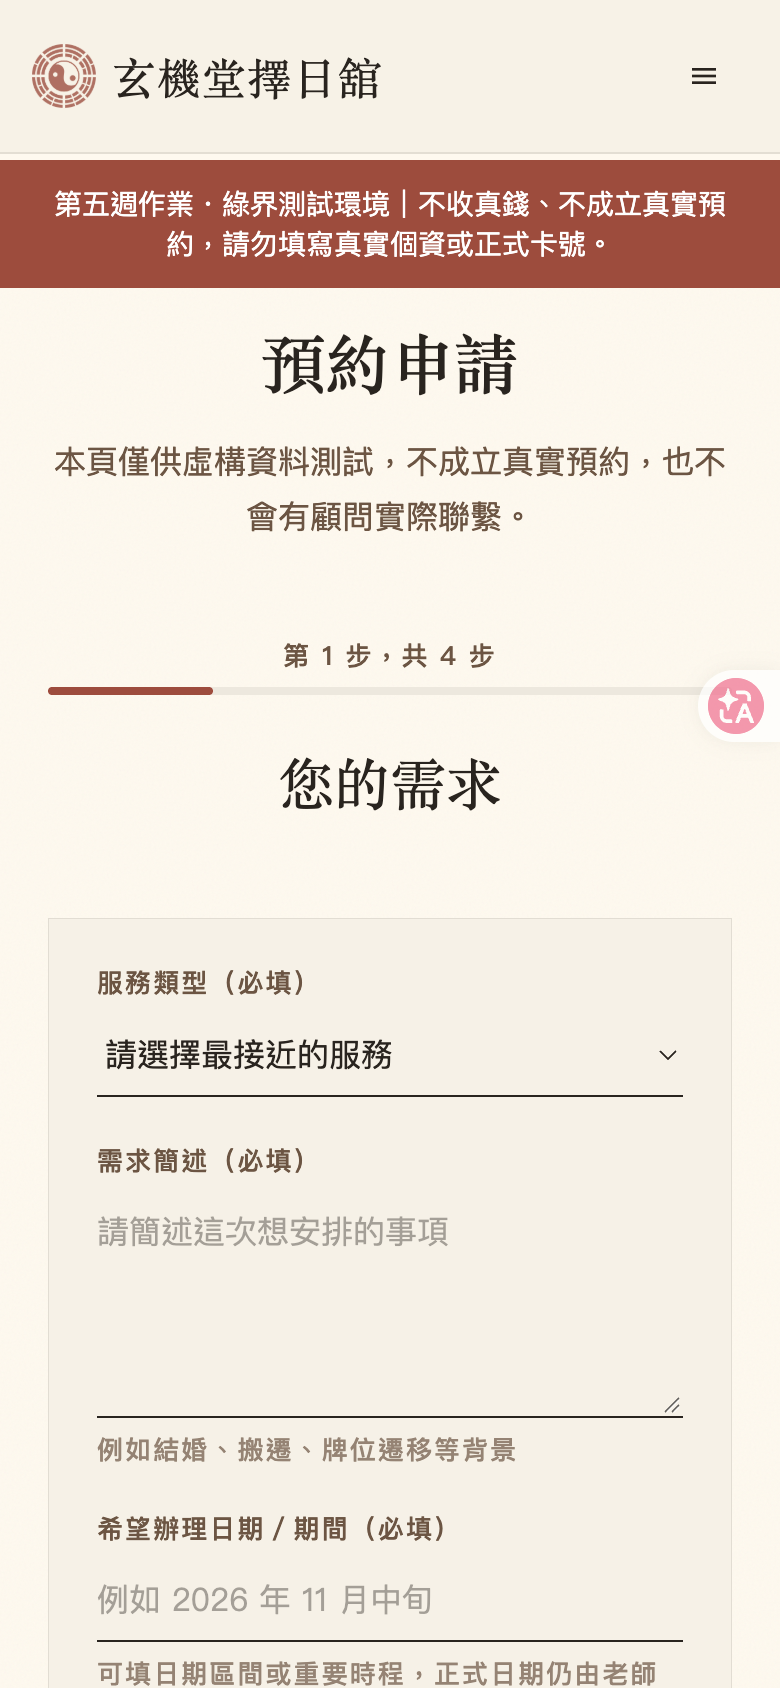
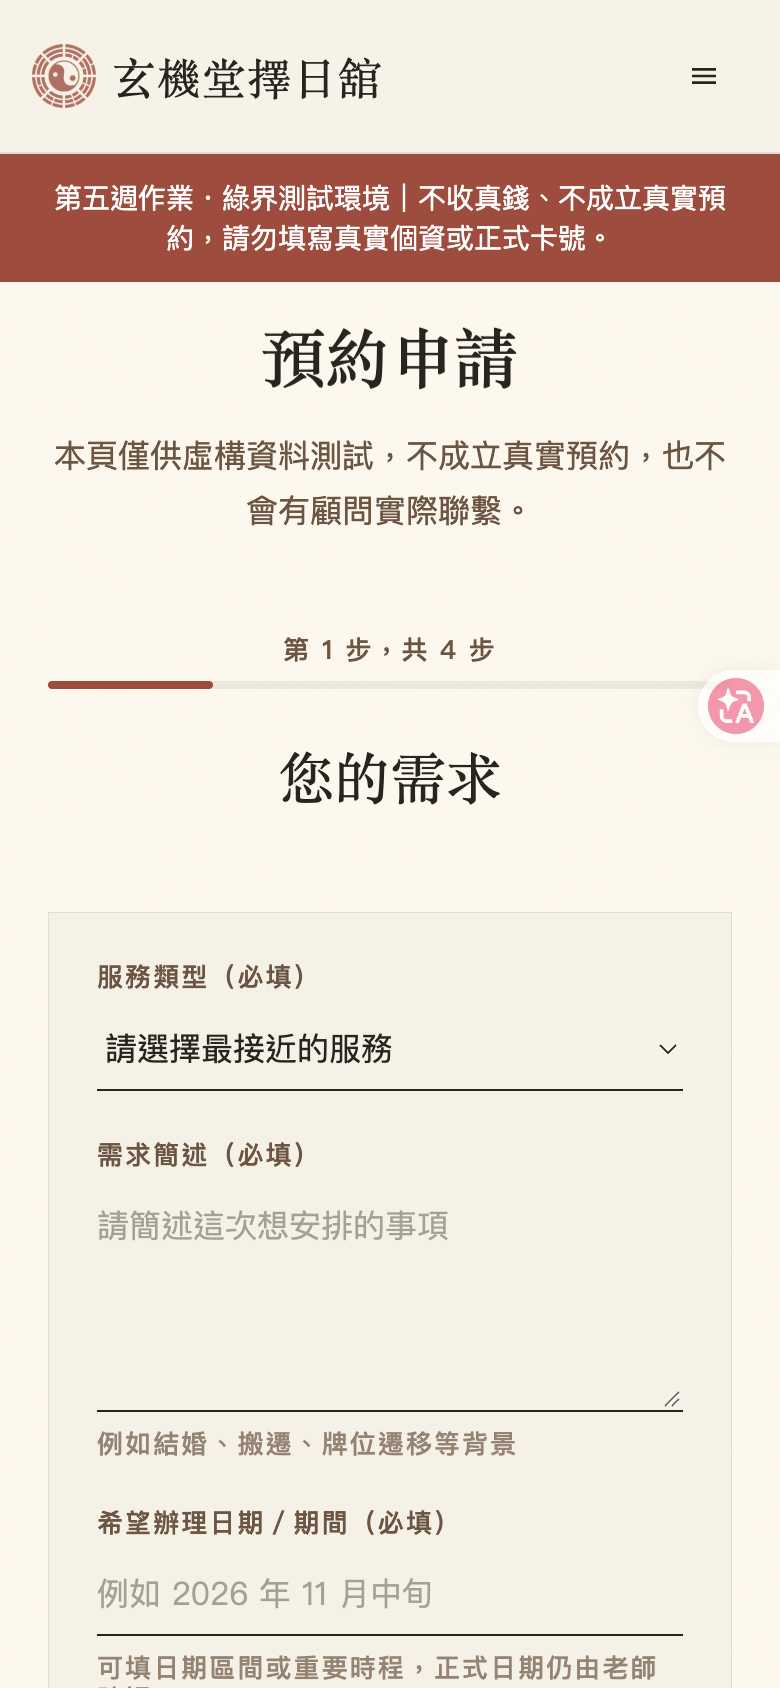
docs: refresh mobile validation evidence and submission screenshots [skip render]

diff --git a/submission/README.md b/submission/README.md
@@ -34,7 +34,7 @@
 
 **互動操作路徑**：開啟首頁 → 查看服務 → 開始預約 → 填寫4步 → 確認摘要 → 送出測試申請 → 模擬確認總價 → 示意登入 → 綠界測試付款頁。
 
-**驗收狀態**：已在公開網址實測完整表單送出、返回保留資料、必填防呆、手機選單、7個服務頁、3篇文章、價格與服務方式。Render可啟動，真實綠界查單回覆待付款狀態正常；程式檢查、8項自動測試及單檔建置通過。
+**驗收狀態**：已在公開網址實測完整表單送出、返回保留資料、必填防呆、手機選單、7個服務頁、3篇文章、價格與服務方式。Render可啟動，真實綠界查單回覆待付款狀態正常；程式檢查、12項自動測試及單檔建置通過。
 
 **尚未完成的驗證**：目前停在綠界測試頁最終付款送出前；「刷卡完成、綠界實際通知、回站成功」尚未完整驗證，不宣稱已完成支付E2E。付款按鈕可抵達官方測試站，並非正式收款。
 
@@ -48,6 +48,7 @@
 ![手機預約表單](https://raw.githubusercontent.com/50819just/xuanjitang-vibe-week05/main/docs/screenshots/mobile-booking.png)
 
 ### 手機必填防呆
+驗證失敗時提示會出現在欄位上方，並自動捲回可見位置；手機導覽隨頁面捲動，不遮蓋欄位。手機預約截圖來自348ebd1，防呆於35c44ad公開版重拍（圖片內容相同）。
 ![手機必填防呆](https://raw.githubusercontent.com/50819just/xuanjitang-vibe-week05/main/docs/screenshots/mobile-validation.png)
 
 ## 與AI反覆調整的過程
@@ -56,6 +57,7 @@
 - 為GitHub Pages修正內頁與付款回站的hash導覽，避免內頁重整找不到檔案。
 - 修正表單驗證、費用級距與付款狀態；補上偽造簽章、錯誤金額、模擬通知的拒絕測試。
 - 真正在瀏覽器填寫預約、串接Render、進入綠界測試頁，再確認主動查單。
+- 使用者指出舊手機防呆截圖內容被固定導覽遮擋，改為手機正常排版流、錯誤聚焦與自動捲回；390px及320px重驗後更新截圖。
 - 手機QA發現320px頂部按鈕擠到選單，調整成小螢幕保留選單，預約入口仍在選單與內文。
 
 ## 來源與使用限制

diff --git a/docs/QA_2026-10-07.md b/docs/QA_2026-10-07.md
@@ -52,3 +52,17 @@
 - 掃描142個Git追蹤檔案與143個目前檔案（含src/data與單檔成品），舊課程字詞0命中。
 - Render Deploys最新7f7e3bc為Live；最後純前端與文件提交沒有重置待付款測試申請。
 - 交付以功能提交的公開驗證為準；後續僅文件／截圖記錄更新不改HTML。
+
+## 手機版面缺陷重驗（348ebd1）
+使用者指出原手機防呆截圖上方文字被固定導覽蓋住。先前「必填阻擋通過」只驗證功能，不能代表版面沒有缺陷；本節補記修正，原紀錄保留。
+- 手機導覽改正常排版流；390px及320px頂部品牌、選單與測試提示完整可見，往下捲不再蓋住表單。
+- 在公開網站空白表單按下一步，錯誤位於欄位上方，自動聚焦並回到畫面；320px重複按同一錯誤亦正常。
+- 欄位、說明與前後步按鈕在兩個寬度完整可見；320px選單可開啟，Escape可關閉。
+- 更新mobile-booking.png與mobile-validation.png，皆為390×844網站區域截圖（像素780×1688），不含瀏覽器書籤或真實資料。
+- lint、12項測試、單檔build、diff check通過；Pages run37572911585成功。新手機導覽回歸測試及錯誤定位測試是結構測試，實際外觀另以上述瀏覽器驗證。
+- 只完成此輪手機問題的針對性驗收；上一輪其他頁面完整視覺巡檢、實機iOS/Android、跨瀏覽器與綠界最終付款仍未完成。
+
+### 單檔核對補充
[1 lines of base64/hex data omitted]
+
+35c44ad公開HTML、dist與submission逐位元相同，SHA256一致。公開版390px空表單再驗證自動回到錯誤，重拍防呆截圖與348ebd1版本像素相同；手機預約頂部截圖保留348ebd1實測圖。本輪目前147個檔案與146個追蹤檔案掃描舊字詞0命中。

diff --git a/docs/CHANGELOG.md b/docs/CHANGELOG.md
@@ -47,3 +47,16 @@
 - 使用者截圖顯示服務方式頁提示被導覽覆蓋，首頁三原則圖示變成英文；前輪首頁頂部與表單截圖不足以涵蓋這兩個區域，承認漏驗。
 - 導覽改量測實際高度，取代固定80px間距；圖示改內嵌SVG輪廓，移除字型連字依賴。
 - 補2項回歸測試及針對性公開瀏覽器檢查；完成結果另記，不以程式檢查代替視覺驗證。
+
+## 2026-10-07｜手機必填防呆版面補修
+- 使用者指出交付截圖頂部固定導覽遮擋表單文字；在95da0e9公開網站390px重現。原本只確認阻擋下一步，未充分驗收提示出現後的閱讀位置。
+- 手機／平板小於1024px的導覽改為正常排版流，首頁也顯示品牌，不再留下透明灰色空白導覽；桌機保留固定導覽及實際高度預留。
+- 必填錯誤移到欄位前，加入alert、程式化聚焦與捲入畫面；相同錯誤重按也會重新定位。
+- 按鈕縮小窄螢幕水平內距並允許整組換行，保留文字完整。
+- lint、12/12測試、單檔build通過；Pages run37572911585成功。公開348ebd1在390×844與320×844重驗錯誤、重按與選單開關；手機預約及防呆截圖已重拍。
+- 沒有更改金流後端，沒有完成最終測試付款；實機與其他瀏覽器仍未驗。
+
+### 單檔樣式建置一致性
+- 對照公開HTML發現JavaScript與圖片相同，但CSS因掃描已生成的submission與歷史文件而多出不同的未使用樣式。舊QA的位元一致旗標不能延用。
+- 依Tailwind官方來源設定，限制只掃描src；連續兩次本機建置SHA256相同，避免交付成品反過來影響下一次建置。參考：https://tailwindcss.com/docs/detecting-classes-in-source-files
+- 35c44ad補修已部署，Pages run37573406628成功；此提交不修改預約行為或後端。

diff --git a/docs/DEPLOYMENT_STATUS.md b/docs/DEPLOYMENT_STATUS.md
@@ -7,12 +7,12 @@
 | 新專案 | 文件／第五週作業1006_擇日館；獨立Git，原專案未改 |
 | GitHub | https://github.com/50819just/xuanjitang-vibe-week05 ；建立與push完成 |
 | GitHub Pages | https://50819just.github.io/xuanjitang-vibe-week05/ ；單檔網站公開瀏覽器實測可操作 |
-| Pages Actions | 4e53e92的37571844651成功；公開HTML與submission成品SHA256一致；最新瀏覽器預約與服務預選正常 |
+| Pages Actions | 35c44ad的37573406628成功；390px與320px手機防呆、版面及選單重驗通過；單檔位元核對見QA_ARTIFACT.json |
 | Render | https://xuanjitang-week05-api.onrender.com ；獨立Free Web Service，Deploys最新7f7e3bc顯示Live，測試交易仍在 |
 | health | https://xuanjitang-week05-api.onrender.com/api/health ；HTTP成功，environment=stage |
 | 前後端連接 | VITE_API_BASE_URL已設定新Render；瀏覽器實際送出申請與建立交易成功 |
 | 綠界 | 真正測試頁與主動查單已驗；最終付款／實際通知／回站成功尚未驗完 |
-| 單一HTML | dist/index.html、submission/index.html相同；CSS/JS/展示圖片/圖示字型內嵌 |
+| 單一HTML | dist/index.html、submission/index.html相同；CSS/JS/展示圖片/SVG圖示內嵌 |
 | VS Code | 新專案已開啟，檔案總管確認src／server |
 | 截圖 | docs/screenshots/，公開網站實拍 |
 
